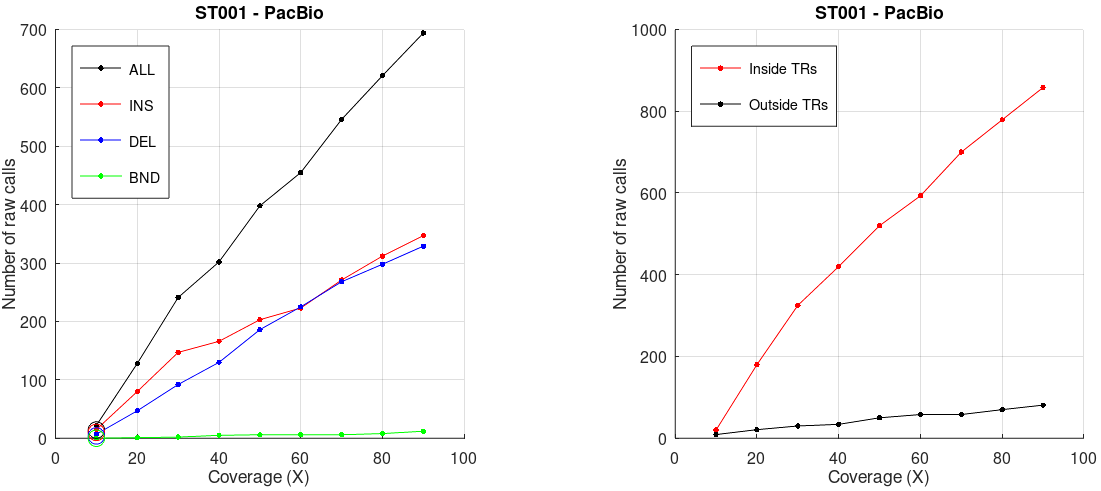
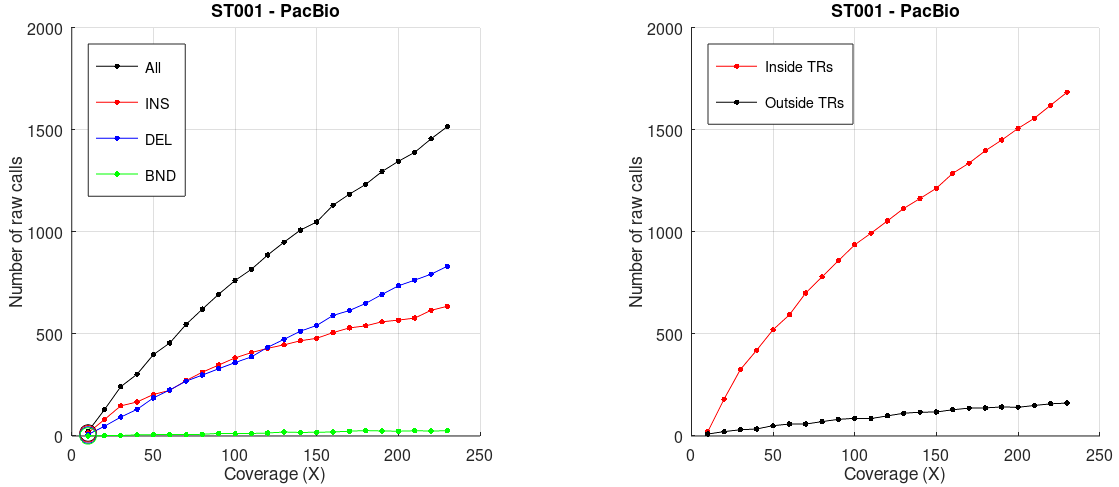
plots now extend to 230x

diff --git a/scripts/length_af_histogram.m b/scripts/length_af_histogram.m
@@ -1,7 +1,7 @@
 FONT_SIZE=16;
 
-A=load('ST001_230_lengths.csv');
-B=load('ST001_230_support_vaf.csv');
+A=load('ST001_fullcov_lengths.csv');
+B=load('ST001_fullcov_support_vaf.csv');
 
 
 # SVLEN
@@ -18,7 +18,7 @@ legend('DEL','INS','location','northeast'); grid on; set(gca,'fontsize',FONT_SIZ
 figure(2); 
 
 subplot(1,2,1); hold on;
-hist(B(:,1),100);
+hist(B(:,1),200);
 xlabel('Number of supporting reads'); ylabel('Number of raw calls'); title('ST001 - PacBio 230x');
 axis square; grid on; set(gca,'fontsize',FONT_SIZE);
 

diff --git a/README.md b/README.md
@@ -13,11 +13,11 @@ We consider the following input:
 For each ST001 technology, we merge all the BAMs, we take random samples at multiples of 10x, and on every such subsample we run `sniffles --mosaic` *requiring just two reads* to support a call (.e. we set `--mosaic-af-min` as a function of coverage). We only output calls that Sniffles considers somatic, i.e. that have `--mosaic-af-max=0.218` (the default). Each call is annotated with the IDs of the reads that support it. We only consider calls in the standard chromosomes.
 
 ![](figures/15.png)
-
-At 10x, SMHT001 (liver failure, circles)  does not have more raw calls than ST001:
-<img src="./figures/16.png" width="300" height="319"/>
+![](figures/16.png)
+Circles: 10x SMHT001 (liver failure, circles).
 
 ![](figures/17.png)
+![](figures/19.png)
 ![](figures/18.png)
 
 
